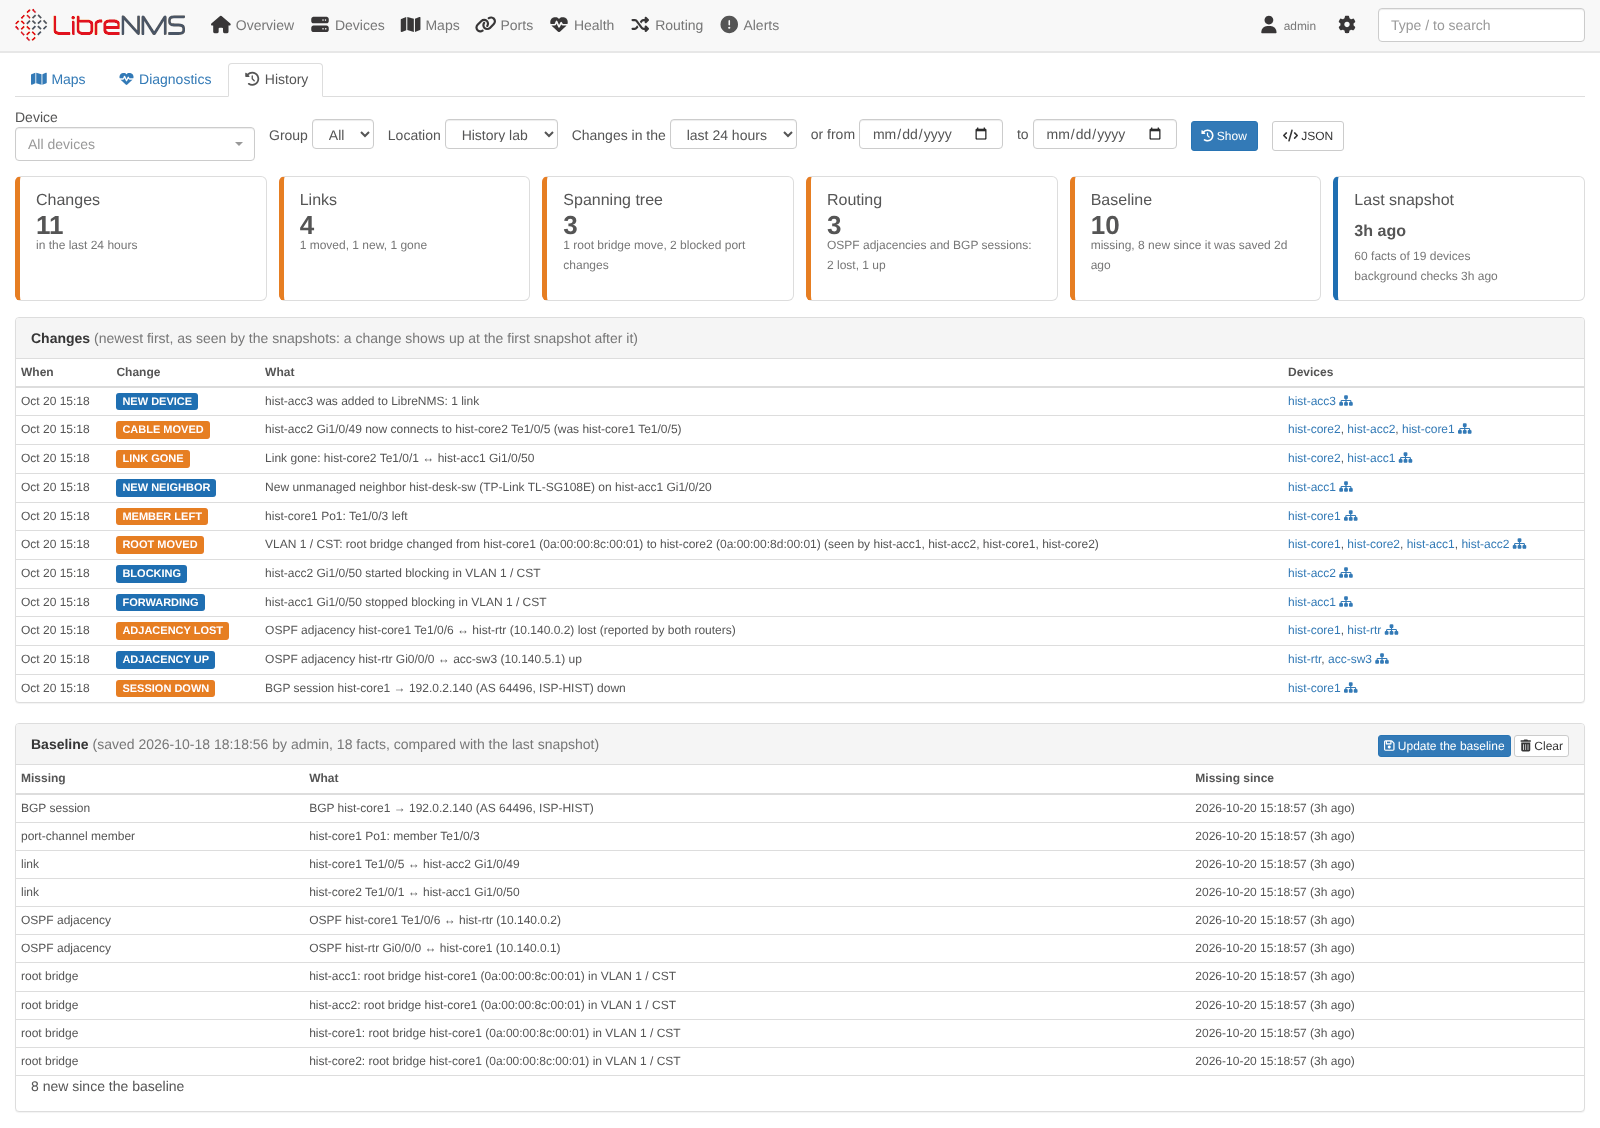
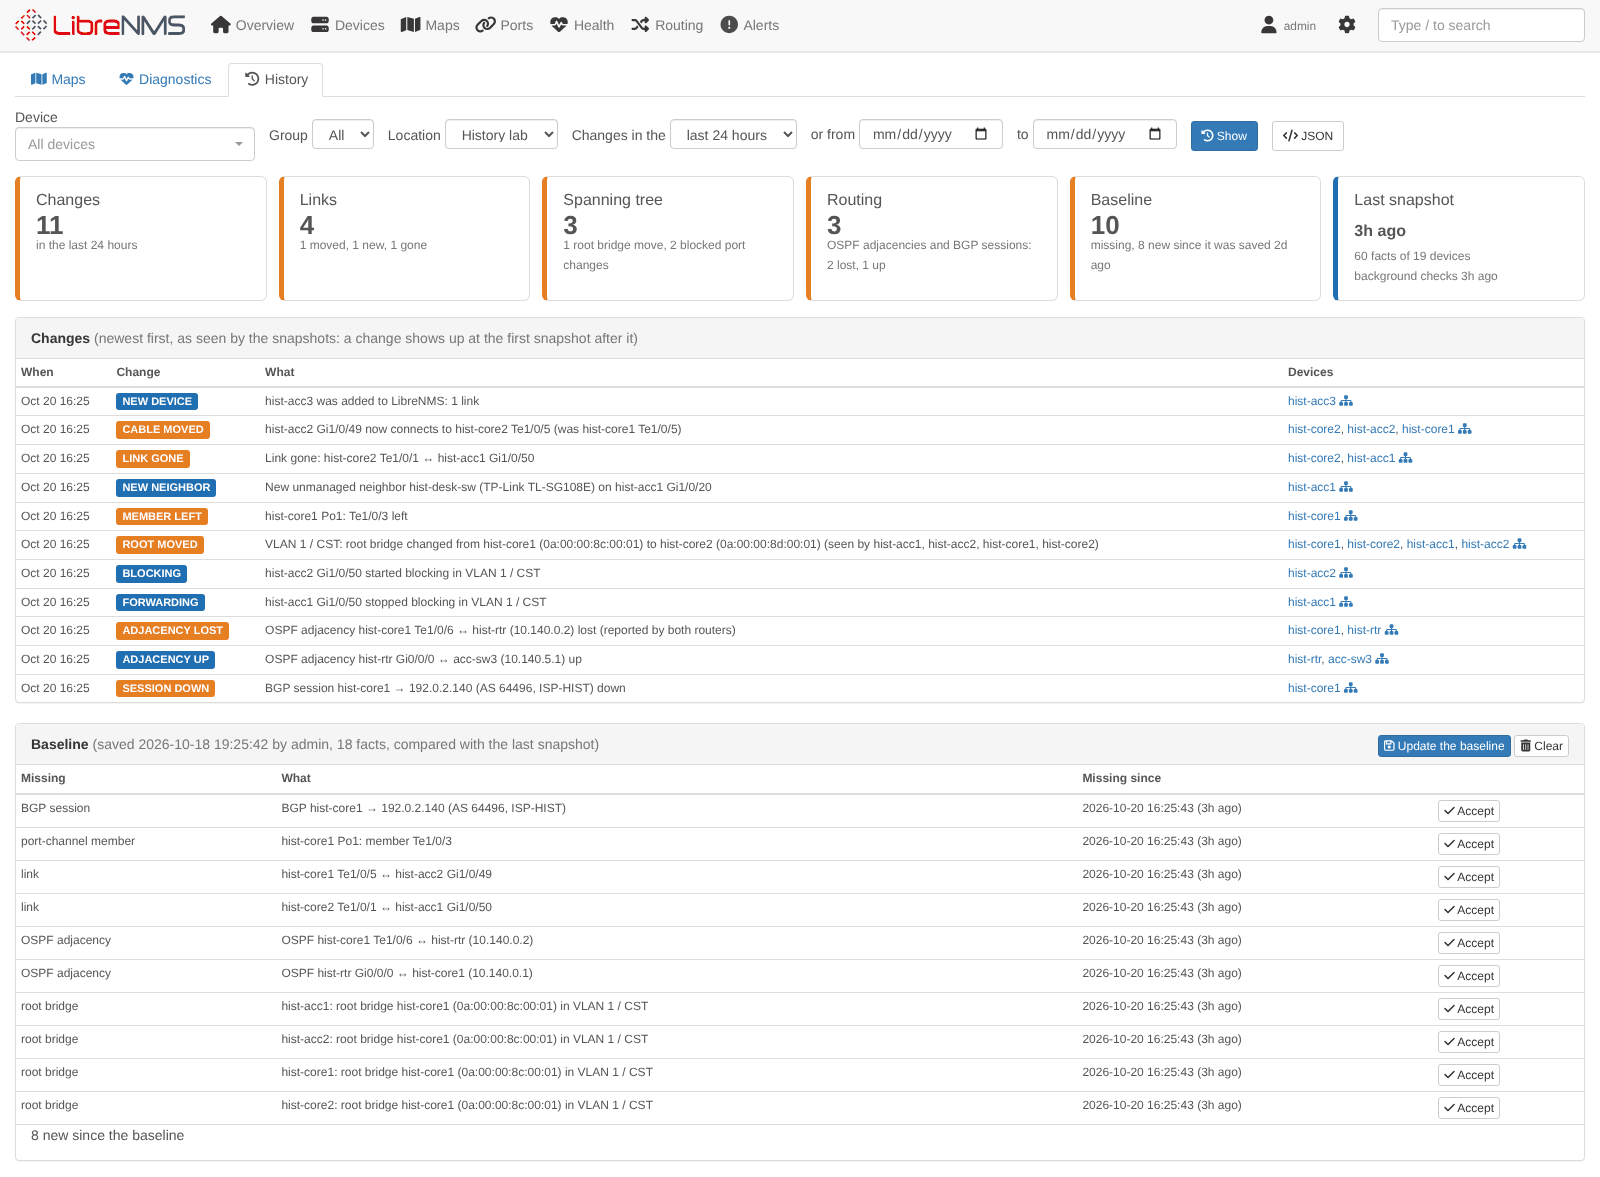
Document the history jobs, the validate.php warning and removal
Claude-Session: https://claude.ai/code/session_0198AmcjhsoHmwiaRMAktLtB

diff --git a/README.md b/README.md
@@ -124,21 +124,26 @@ changed in the last day, week or month, or between two dates:
 | **Cable moved**: a port whose neighbor changed ("acc-sw2 Gi1/0/49 now connects to core2 Te1/0/5 (was core1 Te1/0/5)"), or a link that came back | links |
 | **Link gone**, **new link**, port-channel members that joined or left | links |
 | **New unmanaged switch or access point**, and other unknown LLDP/CDP neighbors | links |
-| **Root bridge moved** (one line per spanning tree instance, with the switches that saw it), ports that started or stopped blocking | spanning tree |
+| **Root bridge moved** (one line per move, with its VLANs and the switches that saw it), ports that started or stopped blocking | spanning tree |
 | **OSPF adjacency lost / up**, **BGP session down / established** (one line when both routers report it) | routing |
 | **New device**: a device LibreNMS started to monitor, with what it brought | devices |
 
 An admin can **save the baseline**: the topology as it should be (links, port-channel members, root bridges, OSPF
 adjacencies, BGP sessions), for everything or for the devices of the current filter. The page then lists what is missing
-compared to the baseline, with since when, and what is new. The redundancy page uses it too: a baseline link
-that LLDP/CDP no longer reports counts as a down link, so a lost uplink is still reported after LibreNMS deleted its
-neighbor at the next discovery (a port that now has another cable is a moved cable, not a lost path).
+compared to the baseline, with since when, and what is new; **Accept** takes one missing item out of the baseline when it
+is gone on purpose. The redundancy page uses it too: a baseline link that LLDP/CDP no longer reports counts as a down link,
+so a lost uplink is still reported after LibreNMS deleted its neighbor at the next discovery (a port that now has another
+cable is a moved cable, not a lost path).
 
-With every snapshot the **background checks** run the spanning tree, link and redundancy checks over all devices and keep
-a findings history. New and resolved findings from *Eventlog from severity* (warning by default) go to the eventlog of
-their devices (type `topology`), so they show on the device pages and in the eventlog widget and alert rules can match
-them. The diagnostics pages mark findings that are **new** since the previous run, and the Changes page lists the findings
-that came or went.
+At the same interval the **background checks** run the spanning tree, link and redundancy checks over all devices, each
+in its own process, and keep a findings history. A finding counts once two runs in a row report it, and is resolved once
+two runs in a row do not, so a check that flickers from run to run does not flood anything. A device gets an entry in its
+eventlog (type `topology`) when it gets its first such finding of a check or loses its last one, from *Eventlog from
+severity* (warning by default) and except the *Checks kept out of the eventlog* (those that follow the counters of the last
+poll); the entries then show on the device pages and in the eventlog widget, and alert rules can match them. An entry names
+the check only ("Topology warning: Redundancy lost (redundancy check), details: plugin/topology/redundancy?device=12"):
+findings name other devices, and everyone who may see a device reads its eventlog. The diagnostics pages mark findings
+that are **new** since the previous run, and the Changes page lists the findings that came or went.
 
 ![Topology changes](docs/images/topology-changes.png)
 
@@ -150,6 +155,8 @@ that came or went.
   (`ipv6-addresses`), `ospf`, `bgp-peers`, `fdb-table` (rogue root tracing), `transceivers` and `sensors`
   (optical levels), `entity-physical` (stack members and line cards). The maps and checks work with whatever subset
   is available.
+* The topology history adds four tables (`topology_*`) with a database migration of the plugin and runs through the
+  LibreNMS scheduler. `./validate.php` warns about that migration; read [Installation](#installation) before acting on it.
 
 ## Installation
 
@@ -183,9 +190,27 @@ can be disabled or configured in **Overview → Plugins → Plugin Admin → top
 
 The topology history keeps its data in tables of the plugin: create them once with `./lnms migrate` (LibreNMS updates run
 it too, so later versions of the plugin update them). The history is recorded by the LibreNMS scheduler, which LibreNMS
-needs anyway (`librenms-scheduler` timer or cron, see `./validate.php`); `./lnms topology:snapshot` records one now.
+needs anyway (`librenms-scheduler` timer or cron, see `./validate.php`): `topology:snapshot --no-checks` and
+`topology:checks stp|links|redundancy` every *History interval*, their output in `logs/topology-snapshot.log`, a failure
+in the eventlog. `./lnms topology:snapshot` records a snapshot and runs the checks now.
 
-To remove it: `./lnms plugin:remove agoodley/librenms-topology-plugin`.
+`./validate.php` then warns that the database schema "has extra migrations
+(2026_10_20_000000_create_topology_history_tables)" and is "between releases": that is the plugin's migration, and the
+warning stays while the plugin is installed. While it warns, validate.php skips its checks of LibreNMS' own schema
+(structure and collation). **Do not delete the plugin's row from the `migrations` table** to silence it: validate.php then
+lists the `topology_*` tables as extra tables and offers to drop them. **Never apply that fix**: it deletes the history and
+the baseline.
+
+To remove the plugin and its tables:
+
+```bash
+# drops the topology_* tables and removes their row from the migrations table
+# (it lists LibreNMS' own migrations as "Migration not found" and leaves them alone)
+./lnms migrate:reset --path=vendor/agoodley/librenms-topology-plugin/database/migrations
+./lnms plugin:remove agoodley/librenms-topology-plugin
+```
+
+`./lnms plugin:remove` alone keeps the tables, so a reinstall keeps the history.
 
 ## Usage tips
 
@@ -202,8 +227,10 @@ To remove it: `./lnms plugin:remove agoodley/librenms-topology-plugin`.
   `l2?fail=d:12,p:345` opens the map with device 12 and the link of port 345 failed (`api/simulate?fail=...` returns the
   same as JSON).
 * After a planned change, save the **baseline** again (for the affected location or group only, by filtering first) so
-  the Changes page and the redundancy analysis expect the new topology. `./lnms topology:snapshot --baseline` records the
-  topology and saves it as the baseline of every device; `--no-checks` skips the background checks.
+  the Changes page and the redundancy analysis expect the new topology, or **Accept** the single items that are gone on
+  purpose (the redundancy finding of a missing link points to its device on the Changes page). `./lnms topology:snapshot
+  --baseline` records the topology and saves it as the baseline of every device; `--no-checks` skips the background
+  checks, `./lnms topology:checks stp` runs one of them.
 * If the automatic core is not your core, set **Core devices** in the settings; the switches next to the LibreNMS
   poller are a good choice when you want "what can the poller still reach".
 * `plugin/topology/api/l2`, `api/l3`, `api/stp`, `api/links`, `api/redundancy` and `api/changes` return the same data as
@@ -236,8 +263,9 @@ To remove it: `./lnms plugin:remove agoodley/librenms-topology-plugin`.
 | Record the topology history | on | every *History interval* through the LibreNMS scheduler |
 | History interval | 60 min | 15, 30, 60, 120, 240, 360, 720 or 1440 |
 | Keep changes for | 90 days | facts and findings that ended earlier are deleted |
-| Background checks | `stp links redundancy` | analyses run with every snapshot; empty disables them |
-| Eventlog from severity | warning | new and resolved background findings from this severity go to the device eventlogs (`critical`, `warning`, `info` or `none`) |
+| Background checks | `stp links redundancy` | analyses run every *History interval*; empty disables them |
+| Eventlog from severity | warning | a device gets an eventlog entry when it gets or loses a background finding from this severity (`critical`, `warning`, `info` or `none`) |
+| Checks kept out of the eventlog | `link_errors link_discards lag_imbalance optical_rx port_transitioning tc_rate tc_recent` | check codes that follow the counters of the last poll; they stay on the pages |
 
 ## Permissions
 
@@ -262,10 +290,11 @@ baseline.
 * `src/Redundancy/RedundancyAnalyzer.php` – single points of failure (cut vertices and bridges toward the core,
   `Support\Graph::cuts()`), fake and lost redundancy and outages; `CoreFinder` picks the core, `PortUnits` reads stack
   members and line cards from the hardware inventory.
-* `src/History/` – the topology history: `FactCollector` (what a snapshot records), `FactDiff` (what it writes),
-  `ChangeReport` (moved cables, root bridge moves, lost adjacencies), `Baseline`, `FindingHistory` (background checks
-  and eventlog entries); `HistoryService` runs them, `Console/SnapshotCommand` is the scheduled `topology:snapshot` and
-  `database/migrations` creates the tables.
+* `src/History/` – the topology history: `FactCollector` (what a snapshot records: one fact per link, port-channel
+  member, root bridge a switch sees and blocked port, the last two with their VLANs), `FactDiff` (what it writes),
+  `ChangeReport` (moved cables, root bridge moves, lost adjacencies), `Baseline`, `FindingHistory` (findings confirmed
+  by two runs, eventlog entries); `HistoryService` runs them, `Console/` holds the scheduled `topology:snapshot` and
+  `topology:checks` and `database/migrations` creates the tables.
 * `resources/assets/topology.js` – the map client, drawn with the vis-network library bundled with LibreNMS.
 
 The builders and analyzer are plain PHP with no LibreNMS dependency and are covered by unit tests:
@@ -296,8 +325,14 @@ vendor/bin/phpunit
   hours by default), spanning tree, OSPF and BGP at polling. A change shows up at the first snapshot after LibreNMS
   noticed it, and a change undone in between is not seen. Phones are left out (they move all day), and devices disabled
   in LibreNMS keep their last state.
-* The background checks analyze the whole network in one process: about 4 s and 250 MB of memory for 1,200 switches with
-  23,000 phones, on top of a 1 s snapshot. On much larger networks raise the *History interval*.
+* The snapshot and each background check run over the whole network, each in its own process with LibreNMS'
+  `php_memory_limit` (512 MB when it is not set). For 1,242 switches with 23,000 phones and 50 PVST VLANs: snapshot 1 s and
+  115 MB, link and redundancy checks 2 s and 160 MB each, the Changes page 0.3 s and 55 MB. The spanning tree check needs
+  550 MB there (it analyzes every VLAN of every switch): set `php_memory_limit` higher or leave `stp` out of *Background
+  checks*. A check that fails is logged in `topology-snapshot.log` and the eventlog, and the others still run.
+* The redundancy analysis compares the baseline with the last snapshot, and only while that is less than a day old.
+* `./validate.php` warns about the plugin's migration while the plugin is installed and then skips its checks of LibreNMS'
+  own schema (see [Installation](#installation)).
 
 ## Roadmap
 
